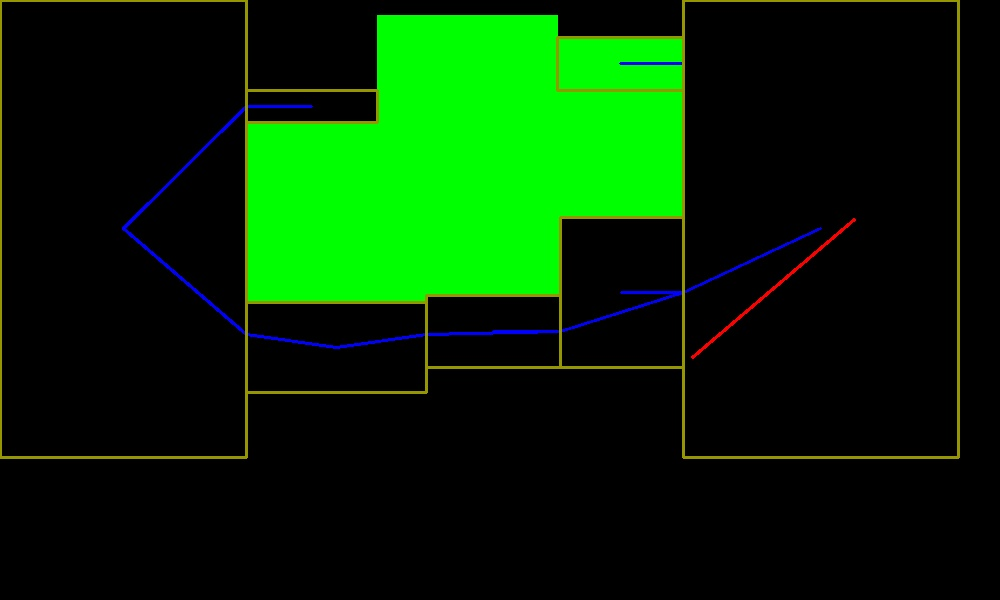
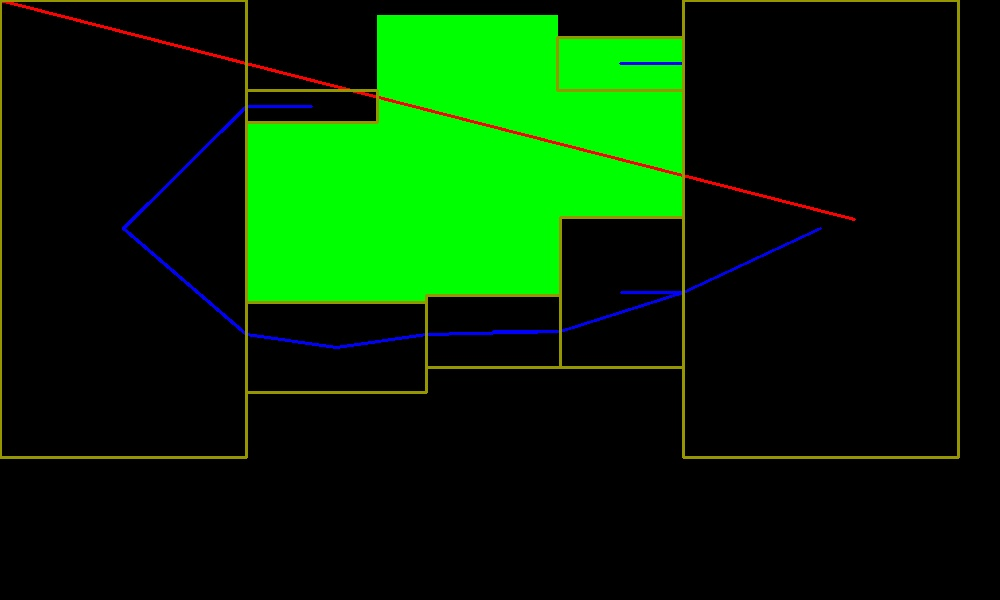
Bon path sauf pour cercle

diff --git a/Client/BaseStation/WorldVision/worldImage.py b/Client/BaseStation/WorldVision/worldImage.py
@@ -75,13 +75,11 @@ class WorldImage:
         for treasure in self.__map.treasures:
             cv2.circle(frame,(int(treasure[0]), int(treasure[1])), 10, (17,148,162), 2)
 
-        for compteur in range (0, self.myPath.__len__()):
+        for compteur in range (1, self.myPath.__len__()):
             startLine = (self.myPath[compteur-1].positionX,self.myPath[compteur-1].positionY)
             endLine =  (self.myPath[compteur].positionX,self.myPath[compteur].positionY)
             cv2.line(frame, (int(startLine[0]), int(startLine[1])), (int(endLine[0]), int(endLine[1])),
                       (0, 0, 255), 2, 1)
-
-
 
         cv2.drawContours( frame, self.__map.getContourList(), -1, (0, 255, 0), 3 )
         cv2.drawContours( frame, limit, -1, (0, 255, 0), 3 )

diff --git a/Client/BaseStation/WorldVision/map.py b/Client/BaseStation/WorldVision/map.py
@@ -11,7 +11,7 @@ import copy
 class Map:
 
     SAFE_MARGIN = 100
-    SAFE_MARGIN_FOR_ISLAND = 100
+    SAFE_MARGIN_FOR_ISLAND = 80
 
     def __init__(self):
         self.__shapes = []
@@ -76,7 +76,7 @@ class Map:
             yCenterOfEdge = edge[0].item(1) + (((edge[0].item(1) - edge[1].item(1)) / 2) * -1)
 
             edgePerpendicularGradient = float(-1 / float(float(edge[1].item(1) - edge[0].item(1)) / float(edge[1].item(0) - edge[0].item(0))))
-            conversionGradient = 1
+            conversionGradient = 10
             if edgePerpendicularGradient > 1:
                 conversionGradient = 0.1
             if targetShape.isOutside((xCenterOfEdge + 1 * conversionGradient, yCenterOfEdge + 1 * edgePerpendicularGradient * conversionGradient)):

diff --git a/Client/BaseStation/WorldVision/shape.py b/Client/BaseStation/WorldVision/shape.py
@@ -98,14 +98,11 @@ class Shape:
         return False
 
     def isOutside(self, point):
-        xElementCoordinate,yElementCoordinate,width,height = cv2.boundingRect(self.contour)
-        minX = xElementCoordinate
-        minY = yElementCoordinate
-        maxX = xElementCoordinate + width
-        maxY = yElementCoordinate + height
-        if point[0] > minX and point[0] < maxX and point[1] > minY and point[1] < maxY:
+        dist = cv2.pointPolygonTest(self.contour,point,True)
+        if dist < 0:
+            return True
+        else:
             return False
-        return True
 
     def asSimilarCenterOfMass(self, otherShape):
         myCenterOfMassX, myCenterOfMassY = self.findCenterOfMass()

diff --git a/Client/BaseStation/WorldVisionTest/mainForTestPhil.py b/Client/BaseStation/WorldVisionTest/mainForTestPhil.py
@@ -48,7 +48,7 @@ def myMain2():
         geometricalImage.addLabels(frame)
         geometricalImage.defineTreasures([30, 150, 87])
         geometricalImage.getIslandPositioning("Square")
-        geometricalImage.drawMapOnImage(frame)
+        geometricalImage.drawMapOnFrame(frame)
 
         cv2.imshow("resized", frame)
 
